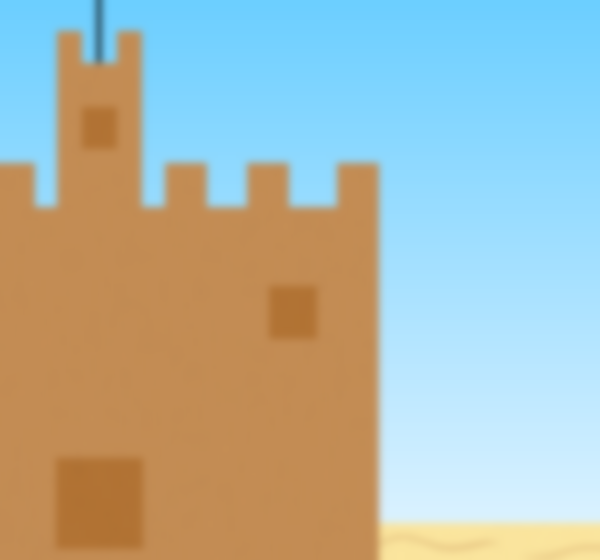
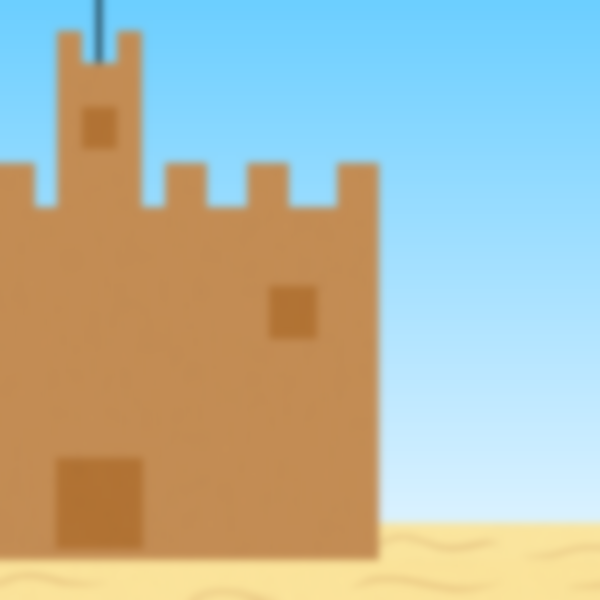
fixed pool noodle target search, fixed sand castle image, added ending cutscene
pool noodle target search replaces goal with nearest in range cell, extended sand castle image, added cutscene lines

diff --git a/tp_graphics.py b/tp_graphics.py
@@ -11,8 +11,8 @@ from cmu_112_graphics import *
 
 def loadImages(app):
     ''' import images from local files '''
-    # backgrounds
-    pass
+    # background
+    app.sandCastleImg = app.loadImage("images/sandCastle.png")
 
     # map-related images
     app.castleCellImg = app.loadImage("images/castle.png")
@@ -23,8 +23,8 @@ def loadImages(app):
     # character icons
     loadIcons(app)
 
-    # character fullbodies
-    app.nerissaImg = app.loadImage("images/aqua.png") # fix later
+    # character fullbody
+    app.nerissaImg = app.loadImage("images/nerissa.png")
 
     # misc
     app.seashellImg = app.loadImage("images/seashell.png")
@@ -53,9 +53,9 @@ def loadIcons(app):
 # General drawing functions
 ####
 
-def drawBackground(app, canvas, color):
-    ''' set the background to a solid color '''
-    canvas.create_rectangle(0, 0, app.width, app.height, fill=color, width=0)
+def drawBackground(app, canvas, image):
+    ''' set the background to an image '''
+    canvas.create_image(0, 0, anchor="nw", image=ImageTk.PhotoImage(image))
 
 def drawSeashells(app, canvas, topX, topY):
     ''' draw the player's Seashell count '''
@@ -102,7 +102,6 @@ def drawThreeButtonMenu(app, canvas, text1, text2, text3,
 
 def mainScreenMode_redrawAll(app, canvas):
     ''' draw the main screen '''
-    drawBackground(app, canvas, "white") # change later
     drawTitle(app, canvas)
 
     # draw buttons
@@ -193,7 +192,7 @@ def drawDialogue(app, canvas, line, topX, topY):
 
 def tutorialMode_redrawAll(app, canvas):
     ''' draw tutorial screen '''
-    drawBackground(app, canvas, "white") # change later
+    drawBackground(app, canvas, app.sandCastleImg)
 
     canvas.create_image(app.width // 2, app.height // 2,
                             image=ImageTk.PhotoImage(app.annaImg))
@@ -273,10 +272,13 @@ def drawGachaMachine(app, canvas):
 
 def cutsceneMode_redrawAll(app, canvas):
     ''' draw a cutscene '''
-    drawBackground(app, canvas, "white") # change later
+    drawBackground(app, canvas, app.sandCastleImg)
 
-    # play dialogue of most recently acquired character
-    characterName = app.barracks[-1].name
+    if not app.storyModeEnd:
+        # play dialogue of most recently acquired character
+        characterName = app.barracks[-1].name
+    else: # ending scene
+        characterName = "Nerissa"
     allDialogue, image = chooseCutscene(app, characterName)
     
     if app.onCutsceneLine < len(allDialogue):
@@ -284,26 +286,31 @@ def cutsceneMode_redrawAll(app, canvas):
                             allDialogue[app.onCutsceneLine])
     else:
         fourFifthsHeight = int(app.height * 4/5)
+        if not app.storyModeEnd:
+            text = "Click to go back to gacha"
+        else:
+            text = "Click to return to main screen"
         drawButton(app, canvas, 0, fourFifthsHeight, app.width, app.height,
-                        color=app.buttonColor, text="Click to go back to gacha")
+                        color=app.buttonColor, text=text)
     
     # draw Aqua and character together
     drawAquaWithImage(app, canvas, image)
 
 def drawAquaWithImage(app, canvas, image):
-    ''' draw Aqua's icon next to another image at the center of the canvas '''
+    ''' draw Aqua's icon next to another image '''
     imageWidth, imageHeight = image.size
     fullWidth = (app.cellSize*2) + imageWidth
 
     aquaLeftX = (app.width-fullWidth) // 2
     imageLeftX = aquaLeftX + (2*app.cellSize)
+    cy = app.height - 150 - max(imageHeight//2, 50)
 
-    canvas.create_image(aquaLeftX, app.width // 2, anchor="w",
+    canvas.create_image(aquaLeftX, cy, anchor="w",
                             image=ImageTk.PhotoImage(app.aquaImg))
-    canvas.create_image(imageLeftX, app.width //2, anchor="w",
+    canvas.create_image(imageLeftX, cy, anchor="w",
                             image=ImageTk.PhotoImage(image))
 
-def chooseCutscene(app, character=None):
+def chooseCutscene(app, character):
     ''' return the dialogue and character image corresponding to a cutscene '''
     if character == "Giang":
         return giangDialogue(app), app.giangImg
@@ -380,7 +387,7 @@ def morganDialogue(app):
     morganIntro = [
         '''...
 >>''',
-        '''...
+        '''......
 >>''',
         "...Morgan, he/him. Here to help."
     ]
@@ -419,8 +426,14 @@ We couldn't have done it without you!
 >>''',
         '''Wait, did I forget to introduce myself? I'm Nerissa, the princess of
 the Sand Castle.
->>'''
-    ] # add more later
+>>''',
+        '''I heard from Anna how dedicated everyone was. It's all thanks to you!
+>>''',
+        '''Now that the Moat is full, we can win the Surf War!
+>>''',
+        f'''I hope that you have a great summer, {app.aqua.name}. You've earned
+it!'''
+    ]
     return endingDialogue
 
 ####

diff --git a/tp_event_functions.py b/tp_event_functions.py
@@ -33,7 +33,7 @@ def appStarted(app):
     resetBattleVars(app)
     
     # define game mode
-    app.freeplay = app.cheats = False
+    app.freeplay = app.cheats = app.storyModeEnd = False
     app.mode = "mainScreenMode"
     app.tutorial = True
 
@@ -363,10 +363,20 @@ def cutsceneMode_keyPressed(app, event):
 
 def cutsceneMode_mousePressed(app, event):
     ''' handle mouse presses in cutscene mode '''
-    # return to gacha after reading at least part of cutscene
-    if event.y >= int(app.height * 4/5) and app.onCutsceneLine > 1:
-        app.onCutsceneLine = 0
-        app.mode = "gachaMode"
+    # normal cutscenes can be partially skipped
+    if not app.storyModeEnd:
+        # return to gacha after reading at least part of cutscene
+        if event.y >= int(app.height * 4/5) and app.onCutsceneLine > 1:
+            app.onCutsceneLine = 0
+            app.mode = "gachaMode"
+    
+    # ending cutscene can't be skipped
+    else:
+        cutSceneLines = 4
+        if app.onCutsceneLine > cutSceneLines:
+            app.onCutsceneLine = 0
+            app.freeplay = True
+            app.mode = "mainScreenMode"
 
 ####
 # Battle screen
@@ -380,7 +390,12 @@ def battleMode_mousePressed(app, event):
         for unit in app.team:
             unit.resetHP()
             unit.untapped = unit.canMove = True
-        app.mode = "transitionMode"
+        if app.droplets >= app.moatSize and not app.storyModeEnd:
+            app.droplets = app.moatSize
+            app.storyModeEnd = True
+            app.mode = "cutsceneMode"
+        else:
+            app.mode = "transitionMode"
         return
 
     if not app.playerTurn:
@@ -404,6 +419,8 @@ def enemyTurn(app):
             target = enemy.chooseTarget(app.team)
             enemy.movePath = aStarSearch(app, (enemy.row, enemy.col),
                                 (target.row, target.col), heuristic)
+            if enemy.range == 1 and len(enemy.movePath) != 0:
+                findAdjacentCell(enemy, target.row, target.col)
 
             # attack if already in range
             if inRange(enemy, target):
@@ -423,6 +440,29 @@ def enemyTurn(app):
     # end turn after all enemies have moved
     if allUnitsTapped(app.enemyTeam):
         app.playerTurn = True
+
+def findAdjacentCell(unit, targetRow, targetCol):
+    ''' add a position to unit.movePath so that the target will be in range '''
+    lastRow, lastCol = unit.movePath[-1]
+    
+    # unit will reach a cell with target in range
+    if targetRow == lastRow and targetCol == lastCol:
+        return
+    
+    # add nearest cell with target in range
+    else:
+        goalRow = (lastRow+targetRow) // 2
+        goalCol = (lastCol+targetCol) // 2
+
+        # prevent stacking 1-cell moves by replacing worse moves
+        if abs(unit.row - goalRow) + abs(unit.col - goalCol) <= 2:
+            unit.movePath.remove((lastRow, lastCol))
+        elif len(unit.movePath) >= 2:
+            rowBeforeLast, colBeforeLast = unit.movePath[-2]
+            if abs(rowBeforeLast - goalRow) + abs(colBeforeLast - goalCol) <= 2:
+                unit.movePath.remove((lastRow, lastCol))
+        
+        unit.movePath.append((goalRow, goalCol))
 
 def playerTurn(app, event):
     ''' handle mouse presses in battle mode during the player's turn '''
@@ -474,9 +514,9 @@ def movePlayableCharacter(app, unit, clickedCell):
 or Enter to wait.'''
 
 def allUnitsTapped(team):
-    ''' return True if all team members have moved this turn '''
+    ''' return True if all living team members have moved this turn '''
     for unit in team:
-        if unit.untapped:
+        if unit.untapped and unit.hp != 0:
             return False
     return True
 
